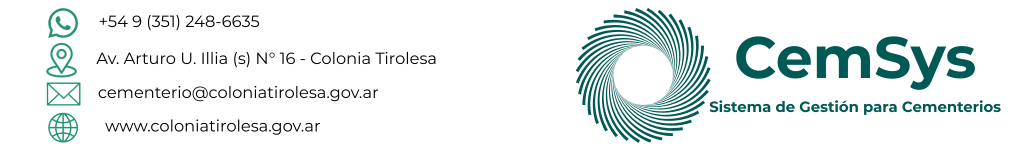
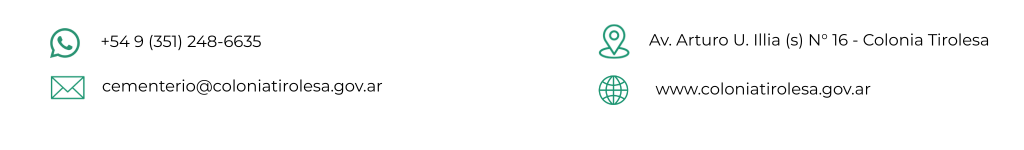
Se mejoran las imagenes de los contratos

Changed region(s): [[0.5625, 0.0533, 1.0, 0.96], [0.0312, 0.0533, 0.4375, 0.72], [0.0312, 0.7467, 0.3125, 0.96]]

diff --git a/Business/TramiteConcesion/ReduccionStrategy.cs b/Business/TramiteConcesion/ReduccionStrategy.cs
@@ -9,7 +9,6 @@ using CemSys3.DTOs.Tarea;
 using CemSys3.DTOs.Tramite;
 using CemSys3.DTOs.TramitesConcesion;
 using CemSys3.DTOs.TramitesConcesion.Reduccion;
-using CemSys3.DTOs.TramitesConcesion.Traslado;
 using CemSys3.Enumerables;
 using CemSys3.Helpers;
 using CemSys3.Helpers.Enumerable;
@@ -317,7 +316,15 @@ namespace CemSys3.Business.TramiteConcesion
                     bool existeConcesion = await _context.Concesiones
                         .AnyAsync(c => c.ParcelaId == reduccion.ParcelaDestinoId && c.Visibilidad == true && c.FechaFin == null);
 
-
+                    if (existeConcesion)
+                    {
+                        Models.Concesione concesionDestino = await _context.Concesiones
+                            .FirstOrDefaultAsync(c => c.ParcelaId == reduccion.ParcelaDestinoId && c.Visibilidad == true && c.FechaFin == null) ?? throw new Exception("Concesion destino no encontrada.");
+                        concesionDestino.InformacionAdicional += $"\n● {difunto.Apellido?.ToUpper()}, {difunto.Nombre?.ToUpper()} viene de {ParcelaFormatter.ObtenerParcela(parcela.TipoParcelaId ?? 0, parcela.NroParcela, parcela.NroFila, parcela.Seccion.Nombre.ToUpper())} en estado {EnumHelper.GetDisplayNameByValue<EstadoDifuntoEnum>(difunto.EstadoDifuntoId ?? 0)}";
+                        concesionDestino.InformacionAdicional += $"\n● El {reduccion.FechaPendiente?.ToString("dd/MM/yyyy HH:mm")} se finalizó el trámite de reducción (trámite {tramiteId}) en concesión ({concesion.Concesion?.ToString("D5")})";
+                        await _historialEstadosService.VincularTramiteAPersona(concesionDestino.TramiteId, difunto.Id);
+                        await _historialEstadosService.VincularTramiteAParcela(reduccion.TramiteId, parcelaDestino.Id);
+                    }
 
                     if (!existeConcesion && parcelaDestino.TipoParcelaId != (int)TipoParcelaEnum.Panteon)
                     {
@@ -328,7 +335,7 @@ namespace CemSys3.Business.TramiteConcesion
                         concesionNueva.EstadoTramiteId = (int)EstadosConcesionEnum.SinContrato;
                         concesionNueva.MensajeParcela += $"\n● El {reduccion.FechaPendiente?.ToString("dd/MM/yyyy")} para difunto {difunto.Apellido?.ToUpper()}, {difunto.Nombre?.ToUpper()} se genera concesión en estado '{EnumHelper.GetDisplayNameByValue<EstadosConcesionEnum>((int)EstadosConcesionEnum.SinContrato)}'.";
                         concesionNueva.InformacionAdicional += $"\n● El {reduccion.FechaPendiente?.ToString("dd/MM/yyyy")} en {ParcelaFormatter.ObtenerParcela(parcelaDestino.TipoParcelaId ?? 0, parcelaDestino.NroParcela, parcelaDestino.NroFila, parcelaDestino.Seccion.Nombre.ToUpper())} se genera concesión en estado '{EnumHelper.GetDisplayNameByValue<EstadosConcesionEnum>((int)EstadosConcesionEnum.SinContrato)}'.";
-                        concesionNueva.InformacionAdicional += $"\n● {difunto.Apellido?.ToUpper()}, {difunto.Nombre?.ToUpper()} viene de {ParcelaFormatter.ObtenerParcela(parcela.TipoParcelaId ?? 0, parcela.NroParcela, parcela.NroFila, parcela.Seccion.Nombre.ToUpper())}";
+                        concesionNueva.InformacionAdicional += $"\n● {difunto.Apellido?.ToUpper()}, {difunto.Nombre?.ToUpper()} viene de {ParcelaFormatter.ObtenerParcela(parcela.TipoParcelaId ?? 0, parcela.NroParcela, parcela.NroFila, parcela.Seccion.Nombre.ToUpper())} en estado {EnumHelper.GetDisplayNameByValue<EstadoDifuntoEnum>(difunto.EstadoDifuntoId ?? 0)}";
                         GenericResultDTO resultadoConcesion = await _concesionService.Add(concesionNueva);
                     }
 
@@ -357,7 +364,7 @@ namespace CemSys3.Business.TramiteConcesion
 
                  
                 // 6 - generar la nota de recordatorio.
-                string descripcionNota = $"\n● El {reduccion.FechaPendiente:dd/MM/yyyy HH:mm} se finalizó un reducción en la concesión ({concesion.Concesion?.ToString("D5")}) (trámite {tramiteId})";
+                string descripcionNota = $"\n● El {reduccion.FechaPendiente:dd/MM/yyyy HH:mm} se finalizó una reducción en la concesión ({concesion.Concesion?.ToString("D5")}) (trámite {tramiteId})";
                 string nombreNota = $"Para Program (concesión {concesion.Concesion?.ToString("D5") ?? "-----"})";
                 string mensajeDifunto = $"{difunto.Apellido?.ToUpper()}, {difunto.Nombre?.ToUpper()} marcar como reducido";
                 string nuevoDestino = $"Se traslado a {reduccion.Destino?.ToUpper()}";

diff --git a/Business/TramiteConcesion/TrasladoStrategy.cs b/Business/TramiteConcesion/TrasladoStrategy.cs
@@ -311,7 +311,15 @@ namespace CemSys3.Business.TramiteConcesion
                     bool existeConcesion = await _context.Concesiones
                         .AnyAsync(c => c.ParcelaId == traslado.ParcelaDestinoId && c.Visibilidad == true && c.FechaFin == null);
 
-
+                    if (existeConcesion)
+                    {
+                        Models.Concesione concesionDestino = await _context.Concesiones
+                            .FirstOrDefaultAsync(c => c.ParcelaId == traslado.ParcelaDestinoId && c.Visibilidad == true && c.FechaFin == null) ?? throw new Exception("Concesion destino no encontrada.");
+                        concesionDestino.InformacionAdicional += $"\n● {difunto.Apellido?.ToUpper()}, {difunto.Nombre?.ToUpper()} viene de {ParcelaFormatter.ObtenerParcela(parcela.TipoParcelaId ?? 0, parcela.NroParcela, parcela.NroFila, parcela.Seccion.Nombre.ToUpper())} en estado {EnumHelper.GetDisplayNameByValue<EstadoDifuntoEnum>(difunto.EstadoDifuntoId ?? 0)}";
+                        concesionDestino.InformacionAdicional += $"\n● El {traslado.FechaPendiente?.ToString("dd/MM/yyyy HH:mm")} se finalizó el trámite de traslado (trámite {tramiteId}) en concesión ({concesion.Concesion?.ToString("D5")})";
+                         await _historialEstadosService.VincularTramiteAPersona(concesionDestino.TramiteId, difunto.Id);
+                         await _historialEstadosService.VincularTramiteAParcela(traslado.TramiteId, parcelaDestino.Id);
+                    }
 
                     if (!existeConcesion && parcelaDestino.TipoParcelaId != (int)TipoParcelaEnum.Panteon)
                     {
@@ -322,7 +330,7 @@ namespace CemSys3.Business.TramiteConcesion
                         concesionNueva.EstadoTramiteId = (int)EstadosConcesionEnum.SinContrato;
                         concesionNueva.MensajeParcela += $"\n● El {traslado.FechaPendiente?.ToString("dd/MM/yyyy")} para difunto {difunto.Apellido?.ToUpper()}, {difunto.Nombre?.ToUpper()} se genera concesión en estado '{EnumHelper.GetDisplayNameByValue<EstadosConcesionEnum>((int)EstadosConcesionEnum.SinContrato)}'.";
                         concesionNueva.InformacionAdicional += $"\n● El {traslado.FechaPendiente?.ToString("dd/MM/yyyy")} en {ParcelaFormatter.ObtenerParcela(parcelaDestino.TipoParcelaId ?? 0, parcelaDestino.NroParcela, parcelaDestino.NroFila, parcelaDestino.Seccion.Nombre.ToUpper())} se genera concesión en estado '{EnumHelper.GetDisplayNameByValue<EstadosConcesionEnum>((int)EstadosConcesionEnum.SinContrato)}'.";
-                        concesionNueva.InformacionAdicional += $"\n● {difunto.Apellido?.ToUpper()}, {difunto.Nombre?.ToUpper()} viene de {ParcelaFormatter.ObtenerParcela(parcela.TipoParcelaId ?? 0, parcela.NroParcela, parcela.NroFila, parcela.Seccion.Nombre.ToUpper())}";
+                        concesionNueva.InformacionAdicional += $"\n● {difunto.Apellido?.ToUpper()}, {difunto.Nombre?.ToUpper()} viene de {ParcelaFormatter.ObtenerParcela(parcela.TipoParcelaId ?? 0, parcela.NroParcela, parcela.NroFila, parcela.Seccion.Nombre.ToUpper())} en estado {EnumHelper.GetDisplayNameByValue<EstadoDifuntoEnum>(difunto.EstadoDifuntoId ?? 0)}";
 
                         GenericResultDTO resultadoConcesion = await _concesionService.Add(concesionNueva);
                     }

diff --git a/Helpers/PDF/PlaywrightPdfGenerator.cs b/Helpers/PDF/PlaywrightPdfGenerator.cs
@@ -12,7 +12,40 @@ namespace CemSys3.Helpers.PDF
             _browser = browser;
         }
 
-        public async Task<byte[]> GenerateFromHtmlAsync(string html, PdfOptionsDto? options = null)
+        //    public async Task<byte[]> GenerateFromHtmlAsync(string html, PdfOptionsDto? options = null)
+        //    {
+        //        options ??= new PdfOptionsDto();
+
+        //        var page = await _browser.NewPageAsync();
+
+        //        await page.SetContentAsync(html, new PageSetContentOptions
+        //        {
+        //            WaitUntil = WaitUntilState.NetworkIdle
+        //        });
+
+        //        var pdf = await page.PdfAsync(new PagePdfOptions
+        //        {
+        //            Format = options.Format,
+        //            Landscape = options.Landscape,
+        //            PrintBackground = true,
+        //            Margin = new Margin
+        //            {
+        //                Top = options.MarginTop,
+        //                Bottom = options.MarginBottom,
+        //                Left = options.MarginLeft,
+        //                Right = options.MarginRight
+        //            }
+        //        });
+
+        //        await page.CloseAsync();
+
+        //        return pdf;
+        //    }
+        //}
+
+        public async Task<byte[]> GenerateFromHtmlAsync(
+    string html,
+    PdfOptionsDto? options = null)
         {
             options ??= new PdfOptionsDto();
 
@@ -20,8 +53,25 @@ namespace CemSys3.Helpers.PDF
 
             await page.SetContentAsync(html, new PageSetContentOptions
             {
-                WaitUntil = WaitUntilState.NetworkIdle
+                WaitUntil = WaitUntilState.Load
             });
+
+            // Esperar que termine de cargar todo
+            await page.WaitForLoadStateAsync(LoadState.NetworkIdle);
+
+            // Esperar específicamente imágenes
+            await page.WaitForFunctionAsync(
+                @"() => Array.from(document.images)
+            .every(img => img.complete)");
+
+            // Aplicar media print
+            await page.EmulateMediaAsync(new()
+            {
+                Media = Media.Print
+            });
+
+            // pequeño margen de seguridad
+            await page.WaitForTimeoutAsync(500);
 
             var pdf = await page.PdfAsync(new PagePdfOptions
             {
@@ -41,13 +91,13 @@ namespace CemSys3.Helpers.PDF
 
             return pdf;
         }
-    }
 
-    internal class PagePdfMargin : Margin
-    {
-        public string Top { get; set; }
-        public string Bottom { get; set; }
-        public string Left { get; set; }
-        public string Right { get; set; }
+        internal class PagePdfMargin : Margin
+        {
+            public string Top { get; set; }
+            public string Bottom { get; set; }
+            public string Left { get; set; }
+            public string Right { get; set; }
+        }
     }
 }

diff --git a/Controllers/ConcesionController.cs b/Controllers/ConcesionController.cs
@@ -149,7 +149,6 @@ namespace CemSys3.Controllers
                 NroConcesion = viewModel.contrato.NroConcesion,
                 Difuntos = viewModel.contrato.Difuntos,
                 Titulares = viewModel.contrato.Titulares,
-                baseUrl = $"{Request.Scheme}://{Request.Host}",
                 PrecioEnLetras = NumeroALetras.ConvertirALetras(viewModel.PrecioFinal),
                 formaPago = viewModel.FormaDePago ?? "",
                 CuotaId = viewModel.CantidadCuotaSeleccionada,
@@ -158,7 +157,9 @@ namespace CemSys3.Controllers
                 CantidadAniosId = viewModel.CantidadAniosId.Value,
                 Vencimiento = viewModel.Vencimiento.Value,
                 fechaGeneracion = DateTime.Now,
-                EsRenovacion = viewModel.contrato.EsRenovacion
+                EsRenovacion = viewModel.contrato.EsRenovacion,
+                LogoBase64 = ObtenerImagenBase64("logoMuni.png"),
+                PieBase64 = ObtenerImagenBase64("pieContrato.png")
             };
 
             var ruta = Path.Combine(_env.WebRootPath, "config", "intendente.txt");
@@ -529,6 +530,31 @@ namespace CemSys3.Controllers
                 });
 
             return pdfBytes;
+        }
+
+        private string ObtenerImagenBase64(string archivo)
+        {
+            var ruta = Path.Combine(_env.WebRootPath, "fotos", archivo);
+
+            if (!System.IO.File.Exists(ruta))
+                return "";
+
+            var bytes = System.IO.File.ReadAllBytes(ruta);
+
+            var base64 = Convert.ToBase64String(bytes);
+
+            var extension = Path.GetExtension(ruta).ToLower();
+
+            var mime = extension switch
+            {
+                ".png" => "image/png",
+                ".jpg" => "image/jpeg",
+                ".jpeg" => "image/jpeg",
+                ".svg" => "image/svg+xml",
+                _ => "application/octet-stream"
+            };
+
+            return $"data:{mime};base64,{base64}";
         }
     }
 }

diff --git a/DTOs/Concesion/GenerarContratoDTO.cs b/DTOs/Concesion/GenerarContratoDTO.cs
@@ -20,7 +20,6 @@ namespace CemSys3.DTOs.Concesion
         public List<PrecioTarifariaDTO> PreciosFosas { get; set; } = new List<PrecioTarifariaDTO>();
 
 
-        public string baseUrl = string.Empty;
         public string PrecioEnLetras = string.Empty;
         public string formaPago { get; set; } = string.Empty;
         public int? CuotaId { get; set; }
@@ -36,6 +35,9 @@ namespace CemSys3.DTOs.Concesion
 
         public string NombreIntendente { get; set; } = string.Empty;
         public bool EsRenovacion {  get; set; } = false;
+
+        public string LogoBase64 { get; set; } = "";
+        public string PieBase64 { get; set; } = "";
 
 
     }

diff --git a/Controllers/ReduccionController.cs b/Controllers/ReduccionController.cs
@@ -2,7 +2,6 @@
 using CemSys3.DTOs.SweetAlert;
 using CemSys3.DTOs.TramitesConcesion;
 using CemSys3.DTOs.TramitesConcesion.Reduccion;
-using CemSys3.DTOs.TramitesConcesion.Traslado;
 using CemSys3.Enumerables;
 using CemSys3.Helpers.Mensajes;
 using CemSys3.Helpers.Roles_Autenticacion;
